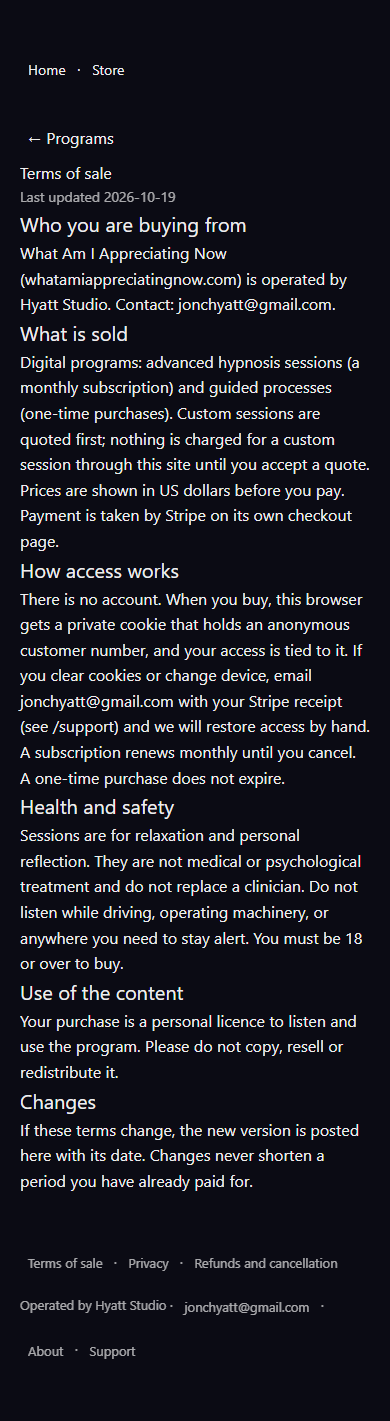
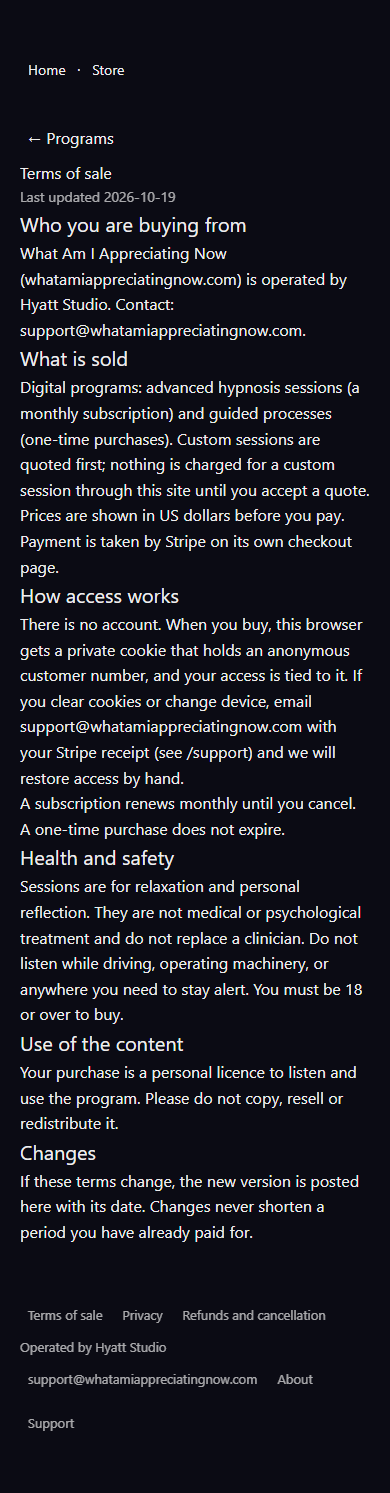
WAIA: close W8 public draft leaks
Claude-Session: https://claude.ai/code/session_01QwUeFZBaQq6HvUEKRg1tbb

diff --git a/public/waia-store.html b/public/waia-store.html
@@ -29,6 +29,8 @@
     --display: "Iowan Old Style", "Sitka Text", Georgia, "Times New Roman", serif;
     --body-font: "Seravek", "Gill Sans Nova", Corbel, "Segoe UI", system-ui, sans-serif;
     --mono: ui-monospace, "Cascadia Code", "SF Mono", Consolas, monospace;
+    /* Change to block only after Jon approves the proposed supporter prices. */
+    --proposed-price-display: none;
   }
 
   * { box-sizing: border-box; }
@@ -106,12 +108,14 @@
   .tiers .tag { font-family: var(--mono); }
   .intake { background: var(--ground-raised); border-radius: 14px; padding: 1.25rem; margin-top: 1.5rem; max-width: 640px; box-shadow: 0 0 40px -16px var(--indigo-glow); }
   .intake label { display: block; margin-top: 0.9rem; color: var(--ink-bright); }
-  .intake select, .intake textarea { width: 100%; margin-top: 0.3rem; background: var(--ground-deep); color: var(--ink); border: 1px solid #8b8878; border-radius: 8px; padding: 0.6rem; font: inherit; }
+  .intake select, .intake textarea, .intake input[type="text"] { width: 100%; margin-top: 0.3rem; background: var(--ground-deep); color: var(--ink); border: 1px solid #8b8878; border-radius: 8px; padding: 0.6rem; font: inherit; }
   .intake select:focus-visible, .intake textarea:focus-visible { outline: 2px solid var(--gold-bright); outline-offset: 3px; }
   .intake button { margin-top: 1rem; background: var(--gold); color: var(--ground-deep); border: 0; border-radius: 999px; padding: 0.6rem 1.4rem; font: inherit; cursor: pointer; }
   .intake .echo { margin-top: 1rem; border-top: 1px solid #ffffff14; padding-top: 0.8rem; white-space: pre-wrap; overflow-wrap: anywhere; }
   .intake .echo h3 { margin: 0; font-family: var(--display); font-weight: 400; color: var(--ink-bright); }
   .fine { font-size: 0.82rem; color: var(--ink-dim); }
+  .proposed-price { display: var(--proposed-price-display); }
+  .footer-links { display: flex; flex-wrap: wrap; justify-content: center; gap: 0 0.35rem; }
 </style>
 </head>
 <body data-waia-page="store">
@@ -144,22 +148,12 @@
           <span class="state">Coming soon</span>
           <h3>The Yale inversion protocol</h3>
           <div class="tag">Guided process. Price to be set.</div>
-          <p>A guided process built on the inversion protocol. The protocol content is handed over by Jonathan and is not written or paraphrased on this page.</p>
+          <p>A guided process built on the inversion protocol. The studio preserves the protocol material without paraphrasing it here.</p>
           <p class="rights"><strong>Rights and provenance.</strong> Source lives with the protocol documents; its provenance note is attached before release.</p>
         </div>
       </article>
-      <article class="card">
-        
-        <div class="card-body">
-          <span class="state">Coming soon</span>
-          <h3>Further protocols</h3>
-          <div class="tag">Guided process. Placeholder.</div>
-          <p>Space held for protocols that have not been handed over yet. Their content is never invented.</p>
-          <p class="rights"><strong>Rights and provenance.</strong> Each protocol carries its own source and permission note before it appears.</p>
-        </div>
-      </article>
     </div>
-    <p>What would you want the first session to help with? <a href="mailto:jonchyatt@gmail.com?subject=Tell%20me%20first%3A%20the%20programs">Leave your email</a> and you hear first.</p>
+    <p>What would you want the first session to help with? <a href="mailto:support@whatamiappreciatingnow.com?subject=Tell%20me%20first%3A%20the%20programs">Leave your email</a> and you hear first.</p>
   </section>
 
   <section id="custom-sessions">
@@ -196,22 +190,16 @@
     <p class="fine">These are plain outbound links to a separate site. What Am I Appreciating Now earns nothing from them.</p>
   </section>
 
-  <section id="shelf">
-    <h2>Health shelf</h2>
-    <p class="fine" id="shelf-disclosure"><strong>Disclosure.</strong> Some links on this shelf are affiliate links. If you buy through one, What Am I Appreciating Now may earn a commission at no extra cost to you. We list an item only because it is on Jonathan's own list, and a commission never changes what we say about it. Nothing here is medical advice, and none of it is meant to diagnose, treat or cure anything; talk to a qualified professional about your health.</p>
-    <div id="shelf-items"><p class="fine">The shelf is being stocked. Nothing is listed yet.</p></div>
-    <p class="fine">Every item is an outbound link to the merchant. Nothing is bought, paid or saved on this page.</p>
-  </section>
-
   <section id="support">
     <h2>Support the channel</h2>
-    <p>Supporters of What Am I Appreciating Now could have their name, or a short message, inscribed in the 360 scene behind the viewer, and on the closing card of flat videos. These tiers and prices are proposals only: Jonathan decides the real ones. Nothing can be bought or joined yet, and there is no payment of any kind on this page.</p>
+    <p>Supporters of What Am I Appreciating Now could have their name, or a short message, inscribed in the 360 scene behind the viewer, and on the closing card of flat videos. These tiers and prices are proposals only: the studio will set the final terms. Nothing can be bought or joined yet, and there is no payment of any kind on this page.</p>
     <div class="grid">
       <article class="card">
         <div class="card-body">
           <span class="state">Proposal</span>
           <h3>Plain</h3>
-          <div class="tag">$5 a month, proposed. Not final.</div>
+          <div class="tag">Not yet on sale.</div>
+          <div class="tag proposed-price">$5 a month, proposed. Not final.</div>
           <p>Soft white name, steady.</p>
         </div>
       </article>
@@ -219,7 +207,8 @@
         <div class="card-body">
           <span class="state">Proposal</span>
           <h3>Glowing</h3>
-          <div class="tag">$10 a month, proposed. Not final.</div>
+          <div class="tag">Not yet on sale.</div>
+          <div class="tag proposed-price">$10 a month, proposed. Not final.</div>
           <p>Gentle glow, slow breathing, soft halo.</p>
         </div>
       </article>
@@ -227,7 +216,8 @@
         <div class="card-body">
           <span class="state">Proposal</span>
           <h3>Sparkly</h3>
-          <div class="tag">$20 a month, proposed. Not final.</div>
+          <div class="tag">Not yet on sale.</div>
+          <div class="tag proposed-price">$20 a month, proposed. Not final.</div>
           <p>Restrained sparkle in warm gold.</p>
         </div>
       </article>
@@ -235,7 +225,8 @@
         <div class="card-body">
           <span class="state">Proposal</span>
           <h3>Ethereal</h3>
-          <div class="tag">$35 a month, proposed. Not final.</div>
+          <div class="tag">Not yet on sale.</div>
+          <div class="tag proposed-price">$35 a month, proposed. Not final.</div>
           <p>Larger letters, slow colour drift, gentle float, plus one short moderated message.</p>
         </div>
       </article>
@@ -266,9 +257,8 @@
   </section>
 
 </main>
-<footer><a href="/">Back to What Am I Appreciating Now</a> · <a href="/programs">Programs</a> · <a href="/store/bundles">Gifts and bundles</a> · <a href="/patrons">Patron wall</a> · <a href="/legal/terms">Terms of sale</a> · <a href="/legal/privacy">Privacy</a> · <a href="/legal/refunds">Refunds and cancellation</a> · <a href="/about">About and contact</a> · <a href="/support">Support</a></footer>
+<footer><nav class="footer-links" aria-label="Footer"><a href="/">Back to What Am I Appreciating Now</a><a href="/programs">Programs</a><a href="/store/bundles">Gifts and bundles</a><a href="/patrons">Patron wall</a><a href="/legal/terms">Terms of sale</a><a href="/legal/privacy">Privacy</a><a href="/legal/refunds">Refunds and cancellation</a><a href="/about">About and contact</a><a href="/support">Support</a></nav></footer>
 <script src="/waia-store-support.js"></script>
 <script src="/waia-counters.js"></script>
-<script src="/waia-affiliate-shelf.js"></script>
 </body>
 </html>

diff --git a/src/app/legal/LegalLinks.tsx b/src/app/legal/LegalLinks.tsx
@@ -5,7 +5,7 @@
  */
 export const OPERATOR = {
   name: 'Hyatt Studio',
-  contact: 'jonchyatt@gmail.com',
+  contact: 'support@whatamiappreciatingnow.com',
 };
 
 /** Shown in the Terms and on every program page. */
@@ -32,15 +32,17 @@ export const FOOTER_LINK_STYLE = NAV_LINK_STYLE;
 export function LegalLinks() {
   return (
     <footer style={{ marginTop: 48, fontSize: 13, opacity: 0.7 }}>
-      <p>
-        {LEGAL_DOCS.map((d, i) => (
-          <span key={d.slug}>{i > 0 && ' · '}<a href={`/legal/${d.slug}`} style={FOOTER_LINK_STYLE}>{d.title}</a></span>
+      <nav aria-label="Legal links" style={{ display: 'flex', flexWrap: 'wrap', gap: '0 4px' }}>
+        {LEGAL_DOCS.map((d) => (
+          <a key={d.slug} href={`/legal/${d.slug}`} style={FOOTER_LINK_STYLE}>{d.title}</a>
         ))}
-      </p>
-      <p>
-        Operated by {OPERATOR.name} · <a href={`mailto:${OPERATOR.contact}`} style={FOOTER_LINK_STYLE}>{OPERATOR.contact}</a> ·{' '}
-        <a href="/about" style={FOOTER_LINK_STYLE}>About</a> · <a href="/support" style={FOOTER_LINK_STYLE}>Support</a>
-      </p>
+      </nav>
+      <nav aria-label="Site details" style={{ display: 'flex', flexWrap: 'wrap', gap: '0 4px', alignItems: 'center' }}>
+        <span>Operated by {OPERATOR.name}</span>
+        <a href={`mailto:${OPERATOR.contact}`} style={FOOTER_LINK_STYLE}>{OPERATOR.contact}</a>
+        <a href="/about" style={FOOTER_LINK_STYLE}>About</a>
+        <a href="/support" style={FOOTER_LINK_STYLE}>Support</a>
+      </nav>
     </footer>
   );
 }

diff --git a/public/waia-affiliate-shelf.js b/public/waia-affiliate-shelf.js
@@ -2,7 +2,7 @@
    Renders only items that are on Jonathan's list AND carry a real link AND a provenance note.
    Stores nothing, sends nothing, takes no payment: each item is an outbound link to the merchant. */
 (function (root) {
-  var DISCLOSURE = 'Some links on this shelf are affiliate links. If you buy through one, What Am I Appreciating Now may earn a commission at no extra cost to you. We list an item only because it is on Jonathan\'s own list, and a commission never changes what we say about it. Nothing here is medical advice, and none of it is meant to diagnose, treat or cure anything; talk to a qualified professional about your health.';
+  var DISCLOSURE = 'Some links on this shelf are affiliate links. If you buy through one, What Am I Appreciating Now may earn a commission at no extra cost to you. The studio lists an item only when it considers it suitable, and a commission never changes what we say about it. Nothing here is medical advice, and none of it is meant to diagnose, treat or cure anything; talk to a qualified professional about your health.';
 
   // Add items here once Jonathan hands over his list and an affiliate programme has approved him.
   // Shape and rules: docs/AFFILIATE-SHELF.md. Never invent a link, an affiliate ID or a product claim.

diff --git a/src/lib/entitlements/salespages.ts b/src/lib/entitlements/salespages.ts
@@ -190,7 +190,7 @@ export const SALES_PAGES: readonly SalesPage[] = [
         heading: 'A guided process, one step at a time',
         body: [
           'You move through the process one step at a time, with an optional timer and private notes that stay in your browser tab.',
-          'The steps are handed over by Jonathan and are not summarised or rewritten on this page.',
+          'The studio preserves the steps without summarising or rewriting them on this page.',
         ],
       },
       { heading: 'Your choice, every step', body: ['You choose to take part, and you can stop at any time. ' + YALE_NAMING_NOTE] },
@@ -264,7 +264,7 @@ export const SALES_PAGES: readonly SalesPage[] = [
         heading: 'It sounds like you want to move through it, not read about it',
         body: [
           'This is a guided process: one step at a time, an optional timer, and private notes that stay in your browser tab.',
-          'The steps are handed over by Jonathan and are not summarised or rewritten on this page.',
+          'The studio preserves the steps without summarising or rewriting them on this page.',
         ],
         technique: 'Voss label as the heading; the process is the quiet answer, facts only.',
       },

diff --git a/src/lib/store/items.ts b/src/lib/store/items.ts
@@ -35,7 +35,7 @@ export const KIND_LABEL: Record<ItemKind, string> = {
 };
 
 export const DISCLOSURE =
-  "Some links on this shelf are affiliate links. If you buy through one, What Am I Appreciating Now may earn a commission at no extra cost to you. We list an item only because it is on Jonathan's own list, and a commission never changes what we say about it. Nothing here is medical advice, and none of it is meant to diagnose, treat or cure anything; talk to a qualified professional about your health.";
+  'Some links on this shelf are affiliate links. If you buy through one, What Am I Appreciating Now may earn a commission at no extra cost to you. The studio lists an item only when it considers it suitable, and a commission never changes what we say about it. Nothing here is medical advice, and none of it is meant to diagnose, treat or cure anything; talk to a qualified professional about your health.';
 
 const PLACEHOLDER = /placeholder|your[-_ ]?(id|tag)|\{[^}]*\}|<[^>]*>|example\.com|\.test\b|localhost/i;
 

diff --git a/public/waia-front-door.html b/public/waia-front-door.html
@@ -276,6 +276,7 @@
     font-size: 0.72rem;
     letter-spacing: 0.14em;
   }
+  .footer-links { display: flex; flex-wrap: wrap; justify-content: center; gap: 0 0.35rem; }
 
   @media (prefers-reduced-motion: reduce) {
     canvas.spiral { animation: none !important; }
@@ -350,7 +351,7 @@
 
 </main>
 
-<footer>What Am I Appreciating Now · Now, what am I appreciating? · <a href="/legal/terms">Terms</a> · <a href="/legal/privacy">Privacy</a> · <a href="/legal/refunds">Refunds</a> · <a href="/support">Support</a></footer>
+<footer><nav class="footer-links" aria-label="Footer"><span>What Am I Appreciating Now</span><span>Now, what am I appreciating?</span><a href="/legal/terms">Terms</a><a href="/legal/privacy">Privacy</a><a href="/legal/refunds">Refunds</a><a href="/support">Support</a></nav></footer>
 
 <script>
   // Generative spiral — logarithmic, drawn on canvas (not hand-authored SVG path data).

diff --git a/src/components/WaiaFooter.tsx b/src/components/WaiaFooter.tsx
@@ -3,12 +3,12 @@ import { FOOTER_LINK_STYLE } from '@/app/legal/LegalLinks';
 export function WaiaFooter() {
   return (
     <footer style={{ marginTop: 48, fontSize: 13, opacity: 0.7 }}>
-      <p>
-        <a href="/legal/terms" style={FOOTER_LINK_STYLE}>Terms</a> ·{' '}
-        <a href="/legal/privacy" style={FOOTER_LINK_STYLE}>Privacy</a> ·{' '}
-        <a href="/legal/refunds" style={FOOTER_LINK_STYLE}>Refunds</a> ·{' '}
+      <nav aria-label="Footer" style={{ display: 'flex', flexWrap: 'wrap', gap: '0 4px' }}>
+        <a href="/legal/terms" style={FOOTER_LINK_STYLE}>Terms</a>
+        <a href="/legal/privacy" style={FOOTER_LINK_STYLE}>Privacy</a>
+        <a href="/legal/refunds" style={FOOTER_LINK_STYLE}>Refunds</a>
         <a href="/support" style={FOOTER_LINK_STYLE}>Support</a>
-      </p>
+      </nav>
     </footer>
   );
 }

diff --git a/src/lib/entitlements/catalog.ts b/src/lib/entitlements/catalog.ts
@@ -44,11 +44,11 @@ export const PROGRAMS: readonly Program[] = [
     id: 'yale-inversion-protocol',
     title: 'Yale inversion protocol: guided process',
     kind: 'one_time',
-    summary: 'A guided process built from the protocol Jonathan has handed over.',
+    summary: 'A guided process built on the inversion protocol.',
     priceCents: priceFor('program:yale-inversion-protocol'),
     testPriceCents: 1000,
     guided: true,
-    provenance: "Source: the Yale attachment protocol document and Jonathan's mental-mastery script doctrine. Read, never rewritten.",
+    provenance: 'Source: the Yale attachment protocol document. The studio records provenance before release.',
   },
 ];
 
